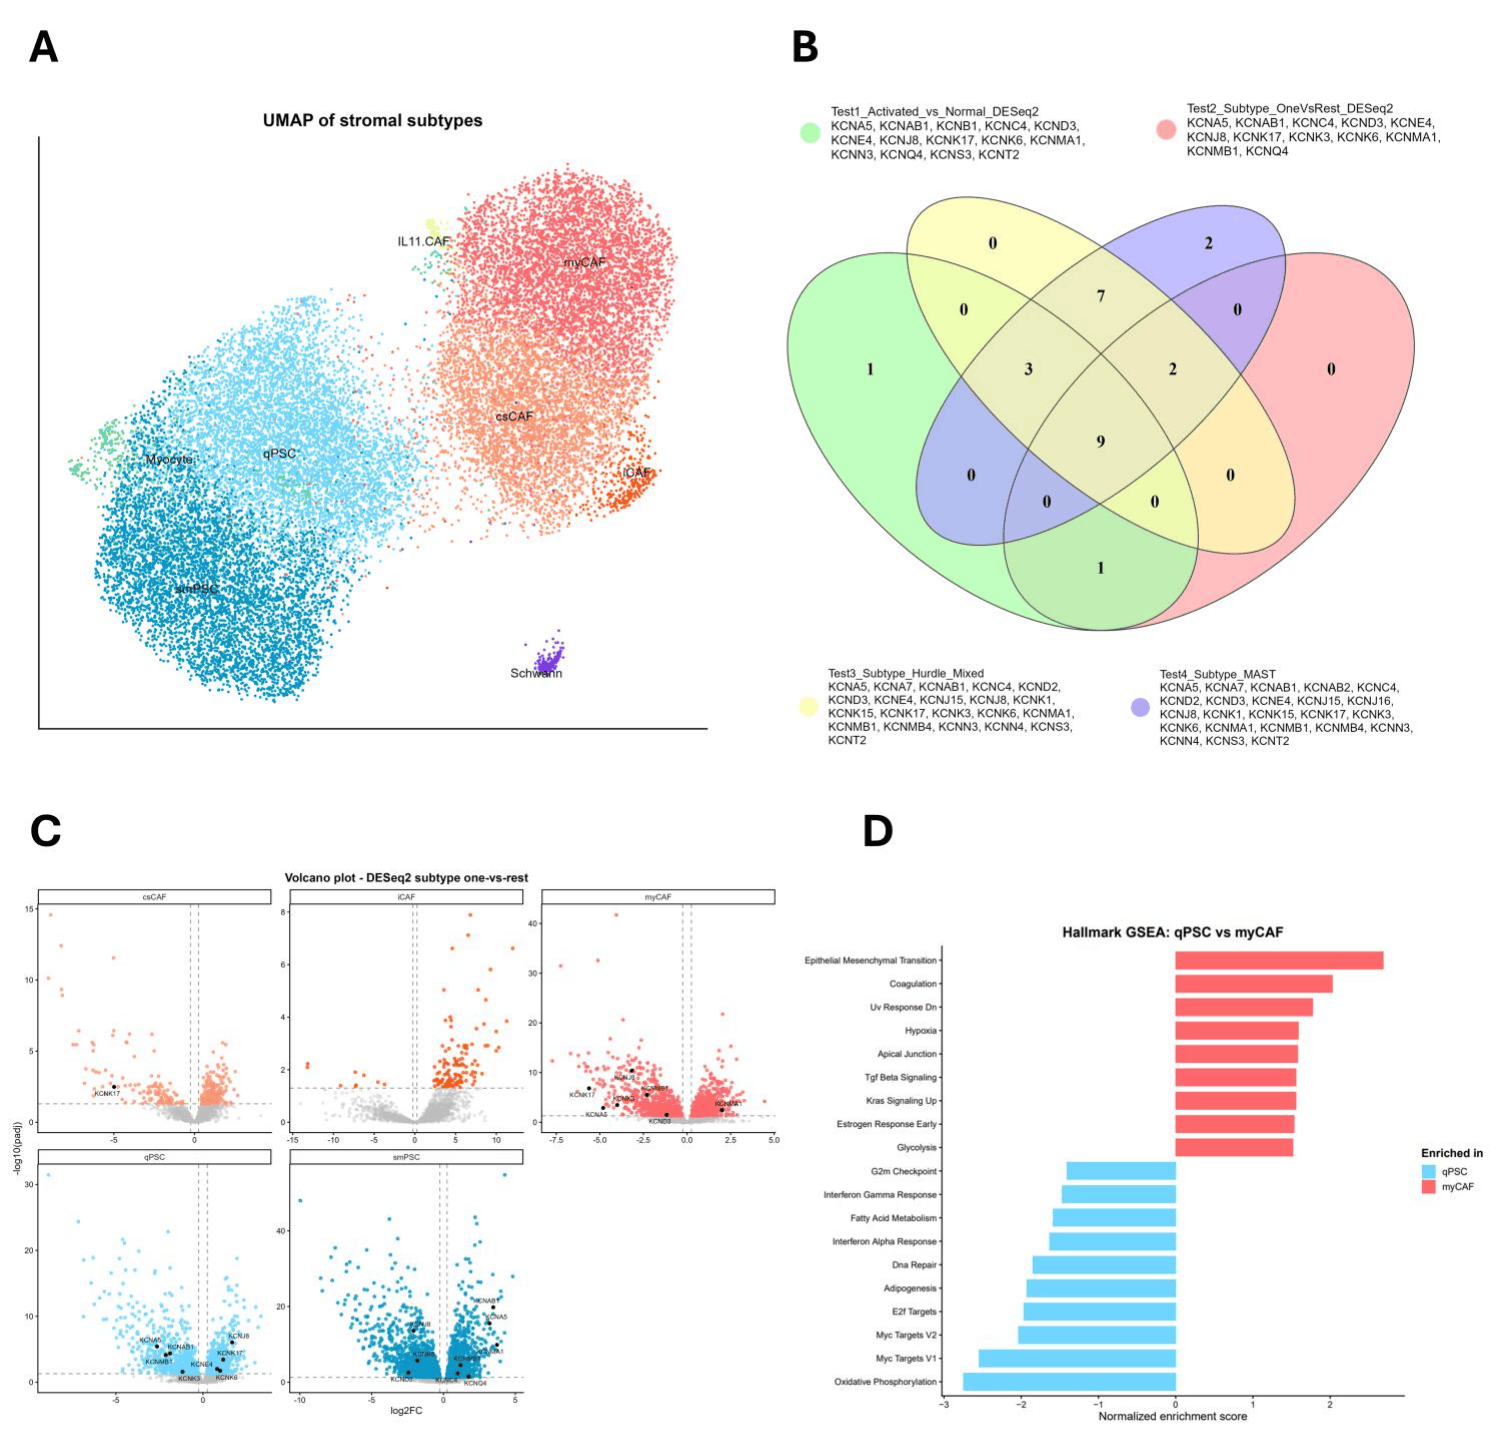
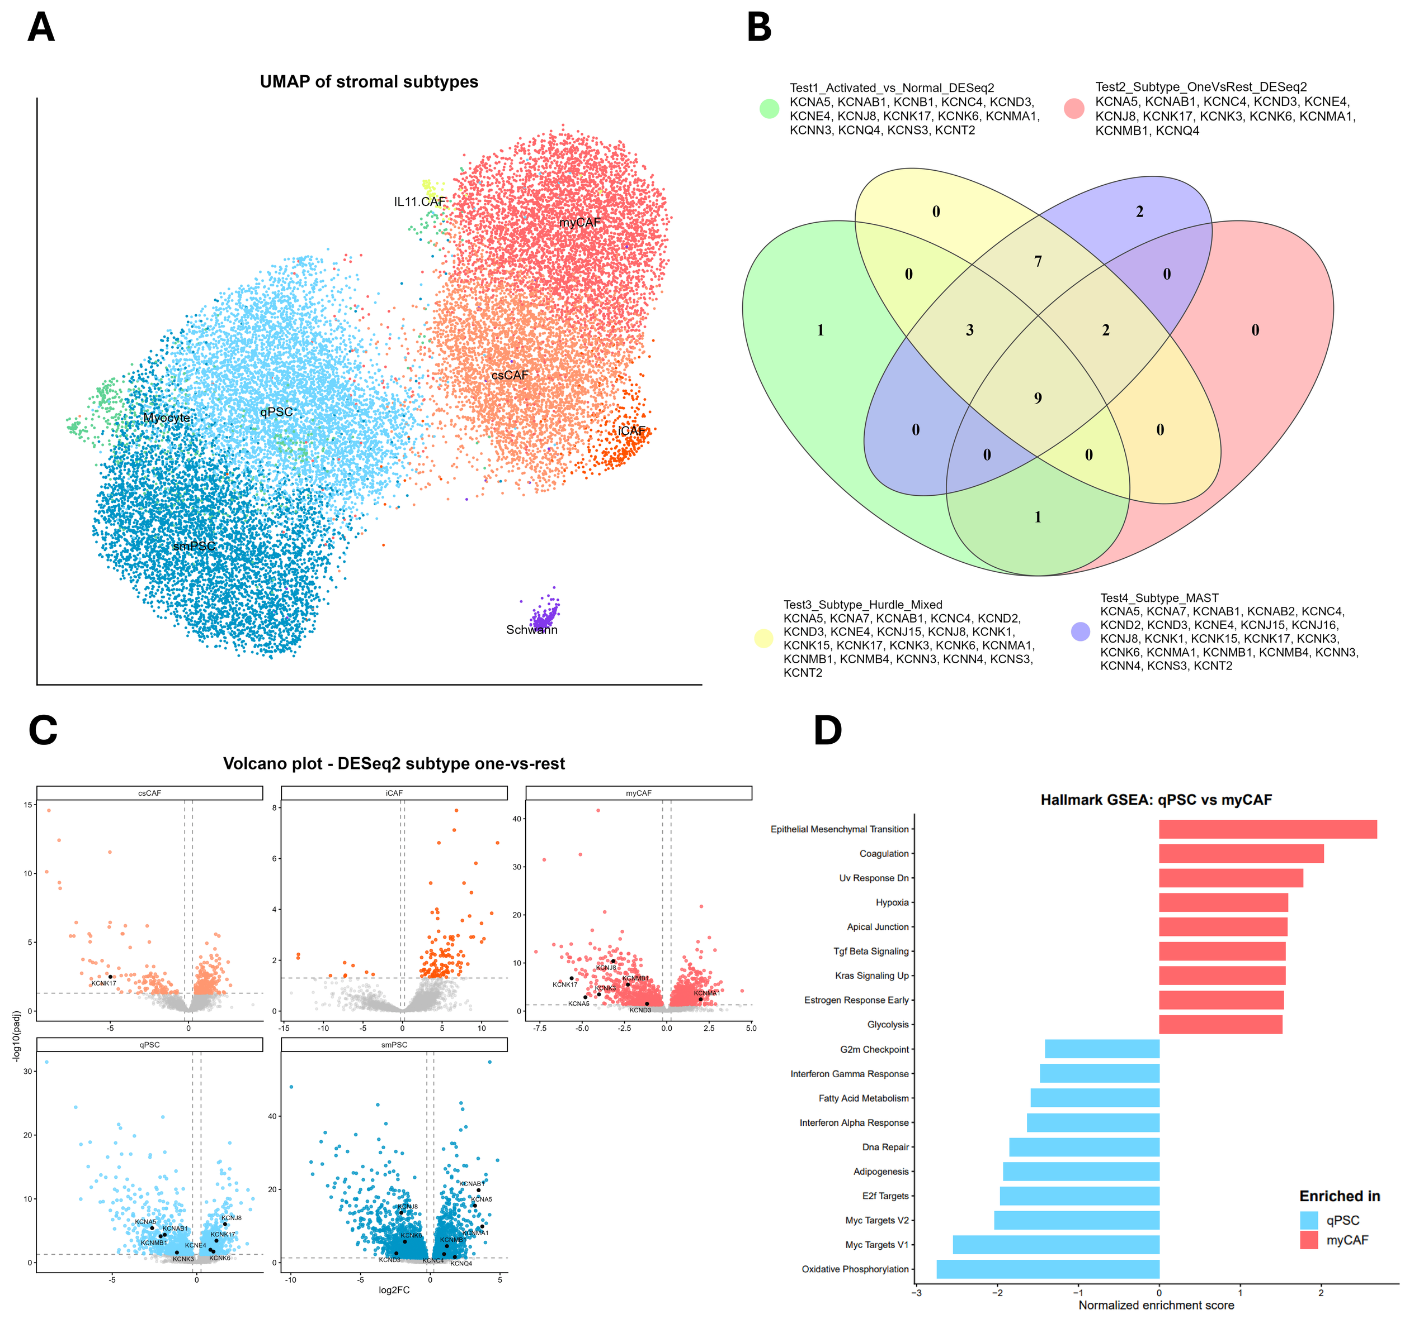
Update report figures and LaTeX

diff --git a/report_latex/main.tex b/report_latex/main.tex
@@ -121,7 +121,7 @@ Pancreatic ductal adenocarcinoma (PDAC) is a highly desmoplastic cancer in which
 \section{Introduction}
 \begin{figure}[H]
 \centering
-\includegraphics[width=1\textwidth]{F1.JPG}
+\makebox[\textwidth][c]{\includegraphics[width=1.05\textwidth]{F1.JPG}}
 \caption{\textbf{Biological context of the PDAC stromal microenvironment.} PDAC epithelial cells are embedded in a dense stromal microenvironment structured by fibroblast heterogeneity, extracellular matrix remodeling, and immune interactions. The scheme shows the myCAF/iCAF framework.}
 \end{figure}
 
@@ -129,7 +129,9 @@ Pancreatic ductal adenocarcinoma (PDAC) is not only a disease of malignant epith
 
 Cancer-associated fibroblasts (CAFs) are now recognized as a heterogeneous population rather than a single cell type. In PDAC, myofibroblastic CAFs (myCAFs) are usually described as matrix-rich and contractile, whereas inflammatory CAFs (iCAFs) are more secretory \citep{ohlund2017,elyada2019}. Recent single-cell studies also support the existence of more quiescent or resident-like stellate states and additional inflammatory or interferon-associated fibroblast programs \citep{hosein2019,oh2023}. In this report, this biological complexity is simplified into a practical contrast between an activated contractile stromal pole and a more quiescent resident-like stromal pole.
 
-Ion channels are relevant in this context because they regulate membrane potential, calcium entry, secretion, cell volume, and mechanical responses. In fibroblasts, these functions can influence contraction, matrix deposition, and communication with neighboring cells. However, ion channels are often expressed at relatively low transcript levels, especially in sparse single-cell or spatial assays, which makes them easy to miss if analysis relies only on absolute expression. This does not mean that they are biologically unimportant. A limited number of ion channels can still produce strong electrophysiological effects on membrane potential and calcium signaling, and these effects can translate into major functional changes \citep{scruggs2020,jiang2019}. In this project, I focused on the potassium channel family because it is the largest ion channel family and because potassium channel biology is a clear area of interest in the host laboratory.
+Previous work from the laboratory supports the idea that ion channels are not only passive markers in PDAC, but can actively participate in tumor/stroma communication. In particular, SK2 was shown to respond to CAF-derived signals and to reinforce signaling pathways associated with invasiveness and metastasis \citep{rapetti2023}.
+
+So ion channels are relevant in this context because they regulate membrane potential, calcium entry, secretion, cell volume, and mechanical responses. In fibroblasts, these functions can influence contraction, matrix deposition, and communication with neighboring cells. However, ion channels are often expressed at relatively low transcript levels, especially in sparse single-cell or spatial assays, which makes them easy to miss if analysis relies only on absolute expression. This does not mean that they are biologically unimportant. A limited number of ion channels can still produce strong electrophysiological effects on membrane potential and calcium signaling, and these effects can translate into major functional changes \citep{scruggs2020,jiang2019}. In this project, I focused on the potassium channel family because it is the largest ion channel family and because potassium channel biology is a clear area of interest in the host laboratory.
 
 The broader project initially identified a union of 25 KCN candidates across the stromal discovery analyses. Because this report is limited in size and number of figures, I focus on three genes that best structure the story. \textit{KCNMA1}, which encodes the pore-forming subunit of the BKCa channel, is used as the main activated stromal candidate. \textit{KCNJ8} is used as a candidate associated with a more quiescent or resident stromal pole. \textit{KCNN4} is used as a tumor epithelial counterpoint that helps distinguish stromal and epithelial territories. This tumor-oriented reading of \textit{KCNN4} is also consistent with PDAC literature, where \textit{KCNN4}-mediated signaling has already been linked to tumor progression \citep{jiang2019}. Other KCN genes remain interesting and will be discussed briefly in the final schematic and perspectives.
 
@@ -161,7 +163,7 @@ So for the tumor/fibroblast contrast, raw counts were aggregated by patient and 
 Also, differential expression analyses were performed across the broader set of major USER cell subsets, but are not detailed here because the tumor/fibroblast contrast is the most directly informative for repositioning stromal KCN candidates.
 
 \subsection{Bulk RNA-seq Analysis of BKCa Silencing in CAFs}
-The third analytical block used a local bulk RNA-seq dataset generated in the host laboratory. In this experiment, BKCa was silenced by short-hairpin RNA in cultured CAFs, creating a \texttt{shBKCa} condition compared with non-targeting controls. In this report, BKCa refers to the large-conductance calcium-activated potassium channel complex centered on the pore-forming \textit{KCNMA1} gene and the associated beta-subunit genes \textit{KCNMB1} and \textit{KCNMB4}. Bulk RNA-seq measures the average transcriptome of each sample rather than individual cells. The comparison included four control samples and four \texttt{shBKCa} samples, and gene-level counts were collapsed into 17,889 genes.
+The third analytical block used a local bulk RNA-seq dataset generated in the host laboratory. In this experiment, BKCa was silenced by short-hairpin RNA in cultured human CAFs, creating a \texttt{shBKCa} condition compared with non-targeting controls. In this report, BKCa refers to the large-conductance calcium-activated potassium channel complex centered on the pore-forming \textit{KCNMA1} gene and the associated beta-subunit genes \textit{KCNMB1} and \textit{KCNMB4}. Bulk RNA-seq measures the average transcriptome of each sample rather than individual cells. The comparison included four control samples and four \texttt{shBKCa} samples, and gene-level counts were collapsed into 17,889 genes.
 
 Principal component analysis (PCA) was used as an internal quality control step on normalized transformed expression values to confirm separation of replicates by condition, although this PCA is not shown here. Differential expression was performed on raw count data with \texttt{DESeq2} \citep{love2014}. Hallmark pathway enrichment was performed with \texttt{fgsea}, using the gene-level log2FC ranking and following the general GSEA framework \citep{subramanian2005,korotkevich2021}. CAF signature heatmaps were built from normalized expression values scaled by gene across samples, corresponding in the legend to a row z-score. At signature level, condition differences were summarized with Wilcoxon rank-sum tests. The myCAF and iCAF signatures were based on published PDAC CAF states, from Ohlund et al. and Elyada et al. \citep{ohlund2017,elyada2019}.
 
@@ -184,7 +186,7 @@ Single-cell and single-nucleus differential results were interpreted together wi
 \subsection{A Stromal KCN Core Was Identified in the Moffitt Dataset}
 \begin{figure}[H]
 \centering
-\includegraphics[width=0.94\textwidth]{F2.png}
+\makebox[\textwidth][c]{\includegraphics[width=0.94\textwidth]{F2.png}}
 \caption{\textbf{Stromal single-cell prioritization in the Moffitt dataset.} \textbf{a} UMAP representation of stromal cell subtypes. \textbf{b} Four-test Venn summary showing overlap between complementary differential expression strategies used to prioritize KCN candidates across cell-level and pseudobulk approaches. \textbf{c} Volcano plots from the pseudobulk subtype/rest analysis highlighting KCN behavior across stromal subtypes. \textbf{d} Hallmark GSEA comparison between qPSC and myCAF.}
 \end{figure}
 
@@ -199,7 +201,7 @@ As shown in Fig.~2d, this polarity is not limited to single genes. The myCAF sid
 \subsection{USER Validation Repositioned the Candidates Along a Tumor--Stroma Axis}
 \begin{figure}[H]
 \centering
-\includegraphics[width=0.98\textwidth]{F3.png}
+\makebox[\textwidth][c]{\includegraphics[width=1.0\textwidth]{F3.png}}
 \caption{\textbf{External validation in the USER snRNA-seq dataset.} \textbf{a} UMAP of the USER PDAC atlas used to reinsert stromal candidates into a broader tumor microenvironment context. \textbf{b} Cell-type composition across patients, shown to highlight inter-patient variability and to justify patient-aware pseudobulk analyses. \textbf{c} Volcano plot of the pseudobulk Tumor/Fibroblast comparison, used to position the selected KCN candidates along a stromal/tumor axis.}
 \end{figure}
 
@@ -212,7 +214,7 @@ A volcano plot summarizes differential expression by showing effect size on the 
 \subsection{BKCa Knockdown in CAFs Altered Programs Linked to Activated Stroma}
 \begin{figure}[H]
 \centering
-\includegraphics[width=0.98\textwidth]{F4.png}
+\makebox[\textwidth][c]{\includegraphics[width=1.05\textwidth]{F4.png}}
 \caption{\textbf{Bulk RNA-seq perturbation analysis in a BKCa-centered CAF model.} \textbf{a} Experimental overview of the control and shBKCa comparison used in the local bulk RNA-seq block. \textbf{b} Volcano plot of differential expression between shBKCa and control samples. \textbf{c} Hallmark GSEA summary used to identify broad transcriptomic programs associated with the perturbation. \textbf{d} Heatmap of selected CAF-related signatures, including myCAF, iCAF, and ifCAF related markers, used to examine whether the perturbation is associated with stromal program shifts.}
 \end{figure}
 
@@ -227,7 +229,7 @@ As shown in Fig.~4d, the CAF heatmap is useful for the stromal interpretation be
 \subsection{Spatial Analyses Distinguished Stromal and Epithelial Territories}
 \begin{figure}[H]
 \centering
-\includegraphics[width=0.99\textwidth]{F5.JPG}
+\makebox[\textwidth][c]{\includegraphics[width=1.08\textwidth]{F5.png}}
 \caption{\textbf{Spatial transcriptomic context for the main KCN candidates.} \textbf{a} Overview of the spatial transcriptomic dataset, including section types, spot numbers, and ecotype information used. \textbf{b} Ecotype composition summary from the reference PDAC study. \textbf{c} Representative Hotspot maps for \textit{KCNMA1} and \textit{KCNN4} in selected PDAC sections (T6, T1, and T12), shown together with the neighboring ecotype context.}
 \end{figure}
 
@@ -240,7 +242,7 @@ As shown in Fig.~5c, in T6, T1, and T12, \textit{KCNMA1} is repeatedly detected 
 \subsection{Signature Projection Strengthened the Contrast Between KCNMA1 and KCNN4}
 \begin{figure}[H]
 \centering
-\includegraphics[width=1\textwidth]{F6.JPG}
+\makebox[\textwidth][c]{\includegraphics[width=1.08\textwidth]{F6.png}}
 \caption{\textbf{Spatial projection of tumor epithelial and CAF-related signatures.} \textbf{a} Spot-level Spearman correlation projections comparing \textit{KCNMA1} and \textit{KCNN4} with a manually defined tumor epithelial signature in selected PDAC sections T1 and T8. \textbf{b} Spot-level comparison between \textit{KCNMA1} and the cancer-associated fibroblast score in representative sections T6, T1, and T3.}
 \end{figure}
 
@@ -264,7 +266,7 @@ This is why the workflow was built around convergence rather than single evidenc
 \section{Conclusions and Perspectives}
 \begin{figure}[H]
 \centering
-\includegraphics[width=0.92\textwidth]{F7.JPG}
+\makebox[\textwidth][c]{\includegraphics[width=1.05\textwidth]{F7.JPG}}
 \caption{\textbf{Summary of the selected KCN landscape in PDAC.} The scheme summarizes the proposed relationship between PDAC stroma, tumor territories, and the main KCN candidates emphasized in this report, with a (simplified) comparison to non-diseased pancreas. The broader KCN union also suggests a directional organization of additional candidates across the PDAC microenvironment.}
 \end{figure}
 
@@ -325,6 +327,9 @@ Ohlund, D., Handly-Santana, A., Biffi, G., et al. (2017). Distinct populations o
 \bibitem[Hwang et al.(2020)]{peng2020}
 Hwang, W. L., Jagadeesh, K. A., Guo, J. A., et al. (2020). Single-nucleus and spatial transcriptomics of archival pancreatic cancer reveals multi-compartment reprogramming after neoadjuvant treatment. \textit{bioRxiv}. doi:10.1101/2020.08.25.267336.
 
+\bibitem[Rapetti-Mauss et al.(2023)]{rapetti2023}
+Rapetti-Mauss, R., Nigri, J., Berenguier, C., et al. (2023). SK2 channels set a signalling hub bolstering CAF-triggered tumourigenic processes in pancreatic cancer. \textit{Gut}, 72, 722--735.
+
 \bibitem[Scruggs et al.(2020)]{scruggs2020}
 Scruggs, A. M., et al. (2020). The role of KCNMB1 and BK channels in myofibroblast differentiation and pulmonary fibrosis. \textit{American Journal of Respiratory Cell and Molecular Biology}, 62(2), 191--203.
 
@@ -355,7 +360,7 @@ This internship reassured me that I made the right choice in following this path
 \addcontentsline{toc}{section}{Seminar Attendance Sheet}
 \begin{figure}[H]
 \centering
-\includegraphics[width=0.9\textwidth]{seminar_attendance.jpg}
+\makebox[\textwidth][c]{\includegraphics[width=0.9\textwidth]{seminar_attendance.jpg}}
 \end{figure}
 
 \end{document}
